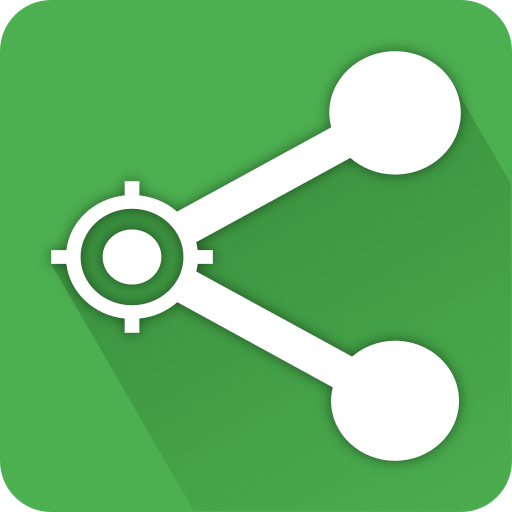
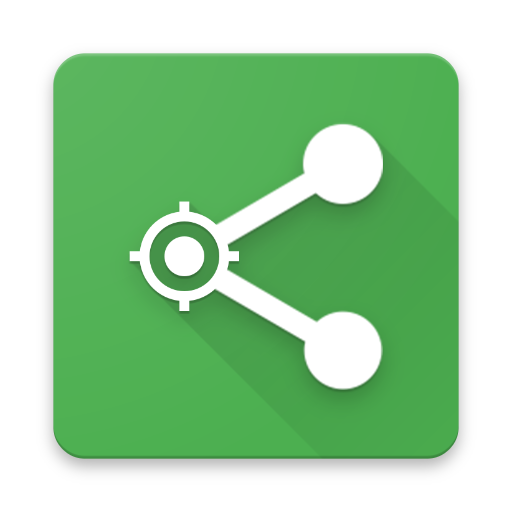
Updated apps images

diff --git a/js/app.js b/js/app.js
@@ -11,7 +11,7 @@ angular.module('appView', []).controller('appController', function ($scope) {
     },
     {
       'name': 'Connect',
-      'img': '../img/blueline.png',
+      'img': '../img/connect.png',
       'playlink': '',
       'gitlink': 'https://github.com/STUDIO-apps/Connect_Android',
       'website': '',
